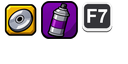
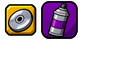
Replace F7 with a map marker selector

Changed region(s): [[0.625, 0.0312, 0.9062, 0.5312]]

diff --git a/tracker.cpp b/tracker.cpp
@@ -14,21 +14,104 @@
 
 namespace {
 const WmlApi* api;const WmlMod* self;
-WmlGuestFunction original_map,original_batch,original_minibatch,original_pos,original_color,original_bitmap;
+WmlGuestFunction original_map,original_batch,original_minibatch,original_pos,original_color,original_bitmap,original_input,original_update,original_action,original_pan;
 std::vector<tracker::Location> locations,missing;
 std::atomic<bool> enabled{false};std::atomic<unsigned> mode{3};
 std::atomic<uint64_t> map_seen{0};
 unsigned cds=0,tags=0;bool cds_ready=false,tags_ready=false;
 uint32_t current_player=0;uint64_t next_snapshot=0;
-thread_local bool map_scope=false,custom_draw=false,drawn=false;
+thread_local bool map_scope=false,custom_draw=false,drawn=false,map_input_scope=false;
 thread_local tracker::Kind marker_kind=tracker::Kind::CD;
 constexpr uint32_t kHead=0x83027018,kFake=0x7EDA0000;
 std::vector<uint8_t> atlas_data;
 bool assets_attempted=false,assets_ready=false;
-std::array<uint32_t,3> asset_bitmaps{};
+std::array<uint32_t,2> asset_bitmaps{};
+struct SelectorState{
+    bool ready=false,focused=false,pointer=false,mouse_down=false,capture_click=false;
+    float left=0,top=0,right=0,bottom=0,cursor_x=.5f,cursor_y=.5f;
+    uint16_t previous=0,claimed=0;
+};
+SelectorState selector;std::mutex selector_mutex;
+constexpr uint16_t kUp=1,kDown=2,kLeft=4,kRight=8,kAccept=0x1000;
 void Log(const std::string& s){api->log(self,s.c_str());}
+void ChangeMode(int direction){
+    constexpr unsigned order[]={3,1,2,0};unsigned index=0;while(index<3&&order[index]!=mode.load())++index;
+    mode=order[(index+(direction>0?1:3))%4];Log("Marker mode "+std::to_string(mode.load()));
+}
+uint16_t SelectInput(uint16_t buttons,bool mouse_down,float dx,float dy){
+    // Closing, changing tabs and backing out always belong to the game.
+    if(buttons&0xA330){
+        selector.previous=buttons;selector.claimed=0;selector.focused=selector.pointer=selector.capture_click=false;selector.mouse_down=mouse_down;return buttons;
+    }
+    const auto pressed=uint16_t(buttons&~selector.previous);selector.previous=buttons;
+    selector.claimed&=buttons;
+    if(dx!=0||dy!=0){
+        selector.pointer=true;selector.cursor_x=std::clamp(selector.cursor_x+dx,0.f,1.f);selector.cursor_y=std::clamp(selector.cursor_y+dy,0.f,1.f);
+        selector.focused=selector.cursor_x>=selector.left&&selector.cursor_x<=selector.right&&selector.cursor_y>=selector.top&&selector.cursor_y<=selector.bottom;
+    }
+    const bool hover=selector.pointer&&selector.cursor_x>=selector.left&&selector.cursor_x<=selector.right&&selector.cursor_y>=selector.top&&selector.cursor_y<=selector.bottom;
+    if(pressed&(kUp|kDown)){selector.focused=(pressed&kUp)!=0;selector.pointer=false;}
+    if(selector.focused){
+        const auto horizontal=pressed&(kLeft|kRight);
+        if(horizontal==kLeft||horizontal==kRight)ChangeMode(horizontal==kRight?1:-1);
+        selector.claimed|=buttons&(kLeft|kRight);
+    }
+    if(mouse_down&&!selector.mouse_down&&hover){
+        selector.focused=true;selector.capture_click=true;
+        ChangeMode(selector.cursor_x<(selector.left+selector.right)*.5f?-1:1);
+    }
+    selector.mouse_down=mouse_down;
+    if(!mouse_down)selector.capture_click=false;
+    return uint16_t(buttons&~(selector.claimed|kUp|kDown|(selector.capture_click?kAccept:0)));
+}
 bool Readable(uint32_t p,size_t n){return p>=0x10000 && uint64_t(p)+n<=UINT32_MAX && WmlHostRangeReadable(reinterpret_cast<uintptr_t>(api->guest_pointer(p)),n);}
 bool SinglePlayer(){return api->read_u8(0x8370E9F6)==0 && api->read_u32(0x8309ABEC)!=0;}
+bool ActiveMap(){return api->read_u32(0x8370DDAC)==26;}
+void ObserveInput(WmlContext* ctx,uint8_t* base){
+    const auto user=uint32_t(api->get_r(ctx,3))&255,state=uint32_t(api->get_r(ctx,5));
+    float dx=0,dy=0;bool focused=false;
+    HWND window=GetForegroundWindow();DWORD process=0;if(window)GetWindowThreadProcessId(window,&process);
+    focused=process==GetCurrentProcessId();
+    if(focused){
+        RECT client{};POINT point{};
+        if(GetClientRect(window,&client)&&GetCursorPos(&point)&&ScreenToClient(window,&point)&&client.right>0&&client.bottom>0){
+            dx=float(point.x-client.right/2)/client.right;dy=float(point.y-client.bottom/2)/client.bottom;
+        }
+    }
+    // The port combines keyboard/mouse and controller input here. Read mouse
+    // motion before it recenters the OS cursor, then handle only this widget.
+    original_input(ctx,base);
+    if((user!=0&&user!=255)||api->get_r(ctx,3)!=0||!Readable(state,16))return;
+    std::lock_guard lock(selector_mutex);const auto buttons=api->read_u16(state+4);
+    if(!focused||!enabled||!SinglePlayer()||!ActiveMap()||!selector.ready||GetTickCount64()-map_seen.load()>100){
+        selector.previous=buttons;selector.claimed=0;selector.focused=selector.pointer=selector.capture_click=false;return;
+    }
+    if(api->read_u8(state+6)||api->read_u8(state+7)){
+        selector.previous=buttons;selector.claimed=0;selector.focused=selector.pointer=selector.capture_click=false;return;
+    }
+    const bool mouse_down=api->key_down(VK_LBUTTON)!=0;
+    SelectInput(buttons,mouse_down,dx,dy);
+    // This hook observes input only. The controller packet, button bits,
+    // triggers and sticks returned by the port are never modified.
+}
+void MapAction(WmlContext* ctx,uint8_t* base){
+    if(map_input_scope){
+        const auto action=uint32_t(api->get_r(ctx,3));bool block=false;
+        {std::lock_guard lock(selector_mutex);block=(selector.focused&&(action==43||action==44))||(selector.capture_click&&action==55);}
+        if(block){api->set_r(ctx,3,0);return;}
+    }
+    original_action(ctx,base);
+}
+void MapPan(WmlContext* ctx,uint8_t* base){
+    bool hover=false;{std::lock_guard lock(selector_mutex);hover=selector.pointer&&selector.focused;}
+    if(map_input_scope&&hover&&!api->key_down('W')&&!api->key_down('A')&&!api->key_down('S')&&!api->key_down('D'))return;
+    original_pan(ctx,base);
+}
+void MapUpdate(WmlContext* ctx,uint8_t* base){
+    const bool previous=map_input_scope;map_input_scope=enabled&&SinglePlayer()&&ActiveMap();
+    try{original_update(ctx,base);}catch(...){map_input_scope=previous;throw;}
+    map_input_scope=previous;
+}
 struct Scratch{
     PPCContext ctx;uint32_t start;std::vector<uint8_t> saved;
     float opacity=1,scale_x=1,scale_y=1,anchor_x=0,anchor_y=0;
@@ -42,7 +125,7 @@ void EnsureAssets(Scratch& s){
     if(assets_attempted||atlas_data.empty())return;assets_attempted=true;
     try{
         const auto bitmap_count=api->read_u32(0x8370DD60),group_count=api->read_u32(0x8370DD5C);
-        if(bitmap_count>1021||group_count>=256)throw std::runtime_error("UI bitmap table full");
+        if(bitmap_count>1022||group_count>=256)throw std::runtime_error("UI bitmap table full");
         // One physical allocation owns both the texture definition and its
         // aligned pixel payload for the lifetime of the game process.
         s.ctx.r3.u64=0;s.ctx.r4.u64=0x9000;s.ctx.r5.u64=4;s.ctx.r6.u64=0;s.ctx.r7.u64=uint64_t(-1);s.ctx.r8.u64=4096;
@@ -64,13 +147,13 @@ void EnsureAssets(Scratch& s){
         const auto texture=s.ctx.r3.u32;
         const auto group=0x82FFAEC8+group_count*8;
         api->write_u32(group,definition+23);api->write_u32(group+4,texture);
-        for(unsigned i=0;i<3;++i){
+        for(unsigned i=0;i<2;++i){
             asset_bitmaps[i]=bitmap_count+i;const auto entry=0x82FF5EC8+asset_bitmaps[i]*20;
-            api->write_u32(entry,group_count);api->write_u32(entry+4,i==0?1:i==1?41:81);api->write_u32(entry+8,1);
-            api->write_u32(entry+12,i==2?32:38);api->write_u32(entry+16,i==2?32:38);
+            api->write_u32(entry,group_count);api->write_u32(entry+4,i==0?1:41);api->write_u32(entry+8,1);
+            api->write_u32(entry+12,38);api->write_u32(entry+16,38);
         }
-        api->write_u32(0x8370DD5C,group_count+1);api->write_u32(0x8370DD60,bitmap_count+3);
-        assets_ready=true;Log("Loaded native-resolution CD, graffiti and F7 textures");
+        api->write_u32(0x8370DD5C,group_count+1);api->write_u32(0x8370DD60,bitmap_count+2);
+        assets_ready=true;Log("Loaded native-resolution CD and graffiti textures");
     }catch(const std::exception& e){Log(std::string("Custom UI textures unavailable; using native marker fallback: ")+e.what());}
 }
 void Snapshot(){
@@ -190,7 +273,7 @@ bool PanelBitmap(Scratch& s,uint32_t bitmap,float x,float y,float w,float h){
     api->write_u32(s.ctx.r1.u32+84,height);api->write_u8(s.ctx.r1.u32+95,0);api->write_u8(s.ctx.r1.u32+103,0);api->write_u32(s.ctx.r1.u32+108,0x82839AA0);
     return api->call(reinterpret_cast<WmlContext*>(&s.ctx),0x8227E450)==0;
 }
-void PanelText(Scratch& s,const std::string& text,float x,float y,float scale,std::array<unsigned,3> color,bool title=false,bool right=false){
+void PanelText(Scratch& s,const std::string& text,float x,float y,float scale,std::array<unsigned,3> color,bool title=false,bool right=false,bool center=false){
     x=s.X(x);y=s.Y(y);scale*=std::min(s.scale_x,s.scale_y);
     auto data=s.Data();auto buffer=data+64;
     for(unsigned i=0;i<128;++i)api->write_u16(buffer+i*2,i<text.size()?uint8_t(text[i]):0);
@@ -201,7 +284,7 @@ void PanelText(Scratch& s,const std::string& text,float x,float y,float scale,st
     const float width=float(api->read_u32(data))*scale,height=float(api->read_u32(data+4))*scale;
     PanelColor(s,color[0],color[1],color[2]);
     for(auto font:{outline,fill}){
-        s.ctx.r3.u64=int32_t(right?x-width:x);s.ctx.r4.u64=int32_t(y-height*.5f);s.ctx.r5.u64=buffer;s.ctx.r6.u64=0;s.ctx.r7.u64=font;s.ctx.r8.u64=0x82839AA0;s.ctx.f1.f64=scale;
+        s.ctx.r3.u64=int32_t(right?x-width:center?x-width*.5f:x);s.ctx.r4.u64=int32_t(y-height*.5f);s.ctx.r5.u64=buffer;s.ctx.r6.u64=0;s.ctx.r7.u64=font;s.ctx.r8.u64=0x82839AA0;s.ctx.f1.f64=scale;
         api->call(reinterpret_cast<WmlContext*>(&s.ctx),0x8264E988);
     }
 }
@@ -237,22 +320,37 @@ void DrawPanel(WmlContext* raw,float map_left,float map_top,float map_right,floa
     PanelText(s,"Graffiti",x+pad,y+111*ui,.82f*ui,purple);
     PanelText(s,tags_ready?std::to_string(tags)+" / 75":"-- / 75",x+w-pad,y+111*ui,.82f*ui,white,false,true);
     PanelRect(s,x+pad,y+139*ui,w-2*pad,ui,150,150,150,120);
-    // Match the port's 32-pixel keyboard prompts: rounded pale rim,
-    // dark inset face and a small drop shadow.
-    PanelColor(s,255,255,255);
-    if(!assets_ready||!PanelBitmap(s,asset_bitmaps[2],x+pad,y+151*ui,32*ui,32*ui)){
-        PanelRoundedRect(s,x+pad+ui,y+154*ui,30*ui,30*ui,6*ui,0,0,0,170);
-        PanelRoundedRect(s,x+pad+ui,y+152*ui,30*ui,30*ui,6*ui,236,236,236,255);
-        PanelRoundedRect(s,x+pad+3*ui,y+154*ui,26*ui,25*ui,4*ui,52,52,56,255);
-        PanelText(s,"F7",x+pad+6*ui,y+166*ui,.59f*ui,white);
+    SelectorState view;
+    {std::lock_guard lock(selector_mutex);
+        selector.left=s.X(x+pad)/sw;selector.right=s.X(x+w-pad)/sw;
+        selector.top=s.Y(y+171*ui)/sh;selector.bottom=s.Y(y+201*ui)/sh;
+        selector.ready=opacity>.99f&&std::abs(s.scale_x-1)<.02f&&std::abs(s.scale_y-1)<.02f;
+        view=selector;
     }
-    PanelText(s,"MARKERS",x+pad+45*ui,y+167*ui,.70f*ui,white);
+    PanelText(s,"MARKERS",x+pad,y+157*ui,.62f*ui,white);
+    PanelRoundedRect(s,x+pad,y+171*ui,w-2*pad,30*ui,3*ui,15,15,18,155);
+    if(view.focused){
+        PanelRect(s,x+pad+3*ui,y+171*ui,w-2*pad-6*ui,ui,220,190,96,180);
+        PanelRect(s,x+pad+3*ui,y+200*ui,w-2*pad-6*ui,ui,220,190,96,180);
+    }
     const char* names[]={"OFF","CDs","GRAFFITI","ALL"};
-    PanelText(s,names[mode.load()],x+pad,y+200*ui,.72f*ui,gold);
+    const std::array<unsigned,3> ink=view.focused?white:gold;
+    PanelText(s,"<",x+pad+9*ui,y+186*ui,.72f*ui,ink);
+    PanelText(s,names[mode.load()],x+w*.5f,y+186*ui,.72f*ui,ink,false,false,true);
+    PanelText(s,">",x+w-pad-9*ui,y+186*ui,.72f*ui,ink,false,true);
+    PanelText(s,view.focused?"DOWN: MAP FILTERS":"UP: SELECT MARKERS",x+w*.5f,y+214*ui,.42f*ui,grey,false,false,true);
+    if(view.pointer&&view.ready){
+        // A small native-rendered pointer follows the captured mouse. It is
+        // drawn after the panel transform, in final viewport coordinates.
+        const float old_x=s.scale_x,old_y=s.scale_y;s.scale_x=s.scale_y=1;
+        const float px=view.cursor_x*sw,py=view.cursor_y*sh;
+        for(int row=0;row<12;++row){const float width=std::min(7,row/2+1)*ui;PanelRect(s,px,py+row*ui,width,ui,0,0,0,255);if(row>1&&width>2*ui)PanelRect(s,px+ui,py+row*ui,width-2*ui,ui,245,245,245,255);}
+        s.scale_x=old_x;s.scale_y=old_y;
+    }
     s.opacity=1;PanelColor(s,saved[0],saved[1],saved[2],saved[3]);
 }
 void Map(WmlContext* ctx,uint8_t* base){
-    if(!enabled||!SinglePlayer()){original_map(ctx,base);return;}
+    if(!enabled||!SinglePlayer()||!ActiveMap()){original_map(ctx,base);return;}
     try{Snapshot();}catch(const std::exception& e){enabled=false;Log(e.what());original_map(ctx,base);return;}
     float left=-1,top=-1,right=-1,bottom=-1;
     const auto tl=uint32_t(api->get_r(ctx,5)),br=uint32_t(api->get_r(ctx,6));
@@ -265,7 +363,7 @@ void Map(WmlContext* ctx,uint8_t* base){
 }
 void Frame(void*){
     const bool visible=enabled&&SinglePlayer()&&GetTickCount64()-map_seen.load()<250;
-    if(visible&&api->key_pressed(VK_F7)){static const unsigned next[]={3,2,0,1};mode=next[mode.load()];Log("Marker mode "+std::to_string(mode.load()));}
+    if(!visible){std::lock_guard lock(selector_mutex);selector.ready=selector.focused=selector.pointer=selector.capture_click=false;}
 }
 }
 extern "C" WML_EXPORT int wml_mod_init(const WmlApi* loader,const WmlMod* mod){
@@ -280,8 +378,8 @@ extern "C" WML_EXPORT int wml_mod_init(const WmlApi* loader,const WmlMod* mod){
         Log("Read 60 CD and 75 graffiti locations from the installed game");
     }catch(const std::exception& e){Log(e.what());return 1;}
     struct Hook{uint32_t address;WmlGuestFunction replacement;WmlGuestFunction* previous;};
-    Hook hooks[]={{0x822B3F70,Map,&original_map},{0x822EDC50,Batch,&original_batch},{0x822E98B8,MiniBatch,&original_minibatch},{0x822EE5E8,Position,&original_pos},{0x8263E7D8,Color,&original_color},{0x8227E720,Bitmap,&original_bitmap}};
+    Hook hooks[]={{0x822B3F70,Map,&original_map},{0x822EDC50,Batch,&original_batch},{0x822E98B8,MiniBatch,&original_minibatch},{0x822EE5E8,Position,&original_pos},{0x8263E7D8,Color,&original_color},{0x8227E720,Bitmap,&original_bitmap},{0x82788EC4,ObserveInput,&original_input},{0x822B6548,MapUpdate,&original_update},{0x8216EE80,MapAction,&original_action},{0x822B6160,MapPan,&original_pan}};
     bool good=true;for(const auto& h:hooks)if(api->hook(h.address,h.replacement,h.previous)){good=false;Log("Required map hook unavailable; tracker disabled");break;}
-    enabled=good;if(good){api->on_frame(Frame,nullptr);Log("Ready: open the map; F7 cycles Both / CDs / Graffiti / Off");}
+    enabled=good;if(good){api->on_frame(Frame,nullptr);Log("Ready: map-side marker selector; mouse arrows or D-pad Up then Left/Right, Down returns to map filters");}
     return 0;
 }

diff --git a/tracker_test.cpp b/tracker_test.cpp
@@ -41,6 +41,7 @@ int Call(WmlContext* c,uint32_t fn){
 }
 void NativePos(WmlContext*,uint8_t*){++pos_fallbacks;}
 void NativeBitmap(WmlContext* c,uint8_t*){drawn_bitmap=uint32_t(R(c,3));}
+void NativeAction(WmlContext* c,uint8_t*){RS(c,3,1);}
 void NativeBatch(WmlContext* raw,uint8_t*){
     if(!custom_draw){++native_batches;return;}
     ++extra_batches;
@@ -80,15 +81,16 @@ int main(int argc,char** argv){
     for(unsigned m=0;m<4;++m){assert(tracker::Visible(tracker::Kind::CD,m)==bool(m&1));assert(tracker::Visible(tracker::Kind::Graffiti,m)==bool(m&2));}
     memory[0x82700000].resize(0x100000);memory[0x82FF0000].resize(0x10000);memory[0x83000000].resize(0x100000);memory[0x83700000].resize(0x20000);
     memory[0x90000000].resize(0x20000);memory[0x91000000].resize(0x20000);memory[0x70000000].resize(0x20000);
-    memory[0x83A00000].resize(0x10000);memory[0x82080000].resize(0x10000);
+    memory[0x83A00000].resize(0x10000);memory[0x839E0000].resize(0x10000);memory[0x82080000].resize(0x10000);
     mock.version=1;mock.size=sizeof(mock);mock.log=LogFake;mock.read_u8=U8;mock.read_u16=U16;mock.read_u32=U32;mock.read_f32=Float;
     mock.write_u8=W8;mock.write_u16=W16;mock.write_u32=W32;mock.write_f32=WF;mock.guest_pointer=Pointer;mock.get_r=R;mock.set_r=RS;
     mock.call=Call;mock.overlay_text=Overlay;mock.key_pressed=Key;api=&mock;static WmlMod mod{"Collectibles","test"};self=&mod;
-    original_map=NativeMap;original_batch=NativeBatch;original_minibatch=NativeMini;original_pos=NativePos;original_color=NativeColor;original_bitmap=NativeBitmap;enabled=true;
+    original_map=NativeMap;original_batch=NativeBatch;original_minibatch=NativeMini;original_pos=NativePos;original_color=NativeColor;original_bitmap=NativeBitmap;original_action=NativeAction;enabled=true;
     W32(0x90012000,1280);W32(0x90012004,720);WF(0x82FFB4E8,1);WF(0x82FFB4EC,1);
     WF(0x82089770,67);WF(0x827AF11C,.000001f);
     W32(0x827D6D1C,1);W32(0x827D6D20,2);W32(0x827D6D14,3);W32(0x827D6D10,4);
     W32(0x8309ABEC,0x90000000);W32(0x90000000+21228,1);
+    W32(0x8370DDAC,26);
     for(const auto& l:locations)if(l.kind==tracker::Kind::CD){W32(0x90000000+20988,l.id);break;}
     unsigned tag=0;for(const auto& l:locations)if(l.kind==tracker::Kind::Graffiti){auto n=0x91000000+tag*28,d=0x91010000+tag*64;W32(n+4,d);W32(d,l.id);W8(n,tag<2?0x40:0);W32(n+20,0x91000000+((tag+1)%75)*28);++tag;}
     W32(0x827E2644,0x91000000);W32(kHead,0x90002000);
@@ -99,7 +101,26 @@ int main(int argc,char** argv){
     assert(U32(kHead)==0x90002000&&color_state==colors&&std::memcmp(&ctx,&before,sizeof(ctx))==0);
     assert(memory==saved); // no progress, mission-list or stack changes survive the draw
     Frame(nullptr);assert(overlay.empty());assert(std::find(labels.begin(),labels.end(),"1 / 60")!=labels.end()&&std::find(labels.begin(),labels.end(),"2 / 75")!=labels.end());
-    pressed=true;Frame(nullptr);assert(mode==1);pressed=true;Frame(nullptr);assert(mode==2);pressed=true;Frame(nullptr);assert(mode==0);pressed=true;Frame(nullptr);assert(mode==3);
+    selector={};selector.ready=true;selector.left=.1f;selector.right=.3f;selector.top=.7f;selector.bottom=.9f;
+    assert(SelectInput(kRight,false,0,0)==kRight&&mode==3);SelectInput(0,false,0,0);
+    assert(SelectInput(kUp,false,0,0)==0&&selector.focused);SelectInput(0,false,0,0);
+    assert(SelectInput(kRight,false,0,0)==0&&mode==1);SelectInput(kRight,false,0,0);assert(mode==1);
+    SelectInput(0,false,0,0);SelectInput(kRight,false,0,0);assert(mode==2);
+    SelectInput(0,false,0,0);SelectInput(kRight,false,0,0);assert(mode==0);
+    SelectInput(0,false,0,0);SelectInput(kLeft,false,0,0);assert(mode==2);
+    SelectInput(0,false,0,0);SelectInput(kDown,false,0,0);assert(!selector.focused);
+    assert(SelectInput(kRight,false,0,0)==kRight&&mode==2);SelectInput(0,false,0,0);
+    SelectInput(0,false,-.25f,.3f);assert(selector.focused&&selector.pointer);
+    assert(SelectInput(kAccept,true,0,0)==0&&mode==0); // click right half cycles once
+    assert(SelectInput(kAccept,true,.5f,0)==0&&mode==0); // dragging out cannot place a waypoint
+    SelectInput(0,false,0,0);assert(SelectInput(kAccept,true,0,0)==kAccept); // outside widget: normal map click
+    for(const auto navigation:{0x10,0x20,0x100,0x200,0x2000,0x8000}){
+        selector.focused=selector.pointer=selector.capture_click=true;
+        assert(SelectInput(uint16_t(navigation),true,0,0)==navigation&&!selector.focused&&!selector.capture_click);
+    }
+    W32(0x8370DDAC,46);auto previous_batches=extra_batches;Map(raw,nullptr);assert(extra_batches==previous_batches);
+    W32(0x8370DDAC,26);
+    selector={};mode=3;
     const auto batches=extra_batches;mode=0;Map(raw,nullptr);assert(extra_batches==batches);
     mode=1;marker_draws=0;Map(raw,nullptr);assert(marker_draws==59);
     mode=2;marker_draws=0;Map(raw,nullptr);assert(marker_draws==73);
@@ -119,8 +140,8 @@ int main(int argc,char** argv){
     memory[0xA0000000].resize(0x9000);
     std::ifstream asset(std::filesystem::path(__FILE__).parent_path()/"assets"/"ui-atlas.bin",std::ios::binary);
     atlas_data.assign(std::istreambuf_iterator<char>(asset),{});assert(atlas_data.size()==32768);
-    {Scratch s(raw);EnsureAssets(s);}assert(assets_ready&&U32(0x8370DD60)==3&&U32(0x8370DD5C)==1);
-    assert(U32(0x82FFAEC8+4)==1737&&U32(0x82FF5EC8+12)==38&&U32(0x82FF5EC8+2*20+12)==32);
+    {Scratch s(raw);EnsureAssets(s);}assert(assets_ready&&U32(0x8370DD60)==2&&U32(0x8370DD5C)==1);
+    assert(U32(0x82FFAEC8+4)==1737&&U32(0x82FF5EC8+12)==38&&U32(0x82FF5EC8+20+12)==38);
     assert(!std::memcmp(Pointer(0xA0001000),atlas_data.data(),atlas_data.size()));
     WF(0x827AF11C,1);
     tracker::Location nearby{tracker::Kind::CD,0,{30,0,0},"test"};assert(InsideMinimap(nearby));
@@ -128,5 +149,11 @@ int main(int argc,char** argv){
     custom_draw=true;marker_kind=tracker::Kind::CD;Bitmap(raw,nullptr);assert(drawn_bitmap==asset_bitmaps[0]);
     marker_kind=tracker::Kind::Graffiti;Bitmap(raw,nullptr);assert(drawn_bitmap==asset_bitmaps[1]);
     custom_draw=false;RS(raw,3,148);Bitmap(raw,nullptr);assert(drawn_bitmap==148);
+    selector.focused=selector.capture_click=true;map_input_scope=true;
+    for(auto action:{43,44,55}){RS(raw,3,action);MapAction(raw,nullptr);assert(R(raw,3)==0);}
+    for(auto action:{0,37,38,56,57,58}){RS(raw,3,action);MapAction(raw,nullptr);assert(R(raw,3)==1);}
+    map_input_scope=false;
+    for(auto action:{43,44,55,56}){RS(raw,3,action);MapAction(raw,nullptr);assert(R(raw,3)==1);}
+    selector={};
     std::cout<<"PASS: native CRC IDs, synthetic CTS parsing, all 135 installed locations, per-save completion filtering, four marker modes, native-font panel, full map and minimap passes, native minimap culling flags, map head/CPU context/stack/color restoration, failure restoration and multiplayer exclusion\n";
 }

diff --git a/BakeAssets.py b/BakeAssets.py
@@ -19,7 +19,7 @@ def tiled_offset(x, y, width):
             + (((((y & 8) >> 2) + (x >> 3)) & 3) << 6)) >> log_bpp
 
 atlas = Image.new('RGBA', (128, 64))
-for name, x, size in [('cd', 1, 38), ('graffiti', 41, 38), ('f7', 81, 32)]:
+for name, x, size in [('cd', 1, 38), ('graffiti', 41, 38)]:
     with Image.open(ASSETS / f'{name}.png') as image:
         assert image.size == (size, size)
         atlas.paste(image.convert('RGBA'), (x, 1))
@@ -35,4 +35,4 @@ for y in range(64):
         payload[dst:dst+4] = bytes((a,r,g,b))
 assert len(used) == 128*64
 (ASSETS / 'ui-atlas.bin').write_bytes(payload)
-print('Baked 38x38 collectible badges and 32x32 F7 prompt into ui-atlas.bin')
+print('Baked 38x38 collectible badges into ui-atlas.bin')

diff --git a/README.md b/README.md
@@ -4,9 +4,11 @@ Shows **CDs / 60** and **Graffiti / 75** in a panel beside the map, using the ga
 
 - Yellow CD badges: CDs.
 - Purple spray-can badges: graffiti.
-- **F7** cycles **Both → CDs → Graffiti → Off**. Counts stay visible with markers off.
+- The **Markers** selector chooses **All → CDs → Graffiti → Off**. Counts stay visible with markers off.
 
-The minimap also shows nearby missing collectibles using the same marker mode. Icons appear only when the whole badge fits inside the radar. The icon textures use native 38×38 badge dimensions, stored without block compression; the F7 prompt uses the port's rounded keyboard-button style. The side panel scales and fades with the map's animation.
+The minimap also shows nearby missing collectibles using the same marker mode. Icons appear only when the whole badge fits inside the radar. The icon textures use native 38×38 badge dimensions, stored without block compression. The side panel scales and fades with the map's animation.
+
+Move the mouse to the selector and click its left or right side to change the mode. With keyboard arrows or the controller D-pad, press **Up** to select Markers, then **Left/Right** to change it; **Down** returns to the normal map filters. Clicking the selector does not place a waypoint. F7 is no longer used.
 
 The tracker reads locations from your own game files and completion from your loaded save. It does not collect items, change progress or replace your waypoint. It is for single-player.
 
@@ -31,4 +33,4 @@ To rebuild the UI atlas from the included PNGs, run `python BakeAssets.py` with 
 
 Author: **kxrxh**. Built for [Saints Reborn](https://github.com/whompay/SaintsReborn) and Whompay's Mod Loader, using the ReXGlue SDK and zlib. No game files or extracted location tables are included.
 
-Local prototype: automated checks passed. In-game checks confirmed the UI, marker modes, clean icons, panel animation and CD progress updating after collection.
+Local prototype: automated checks passed. In-game checks confirmed the selector, tab switching and menu closing, clean icons, panel animation and CD progress updating after collection.
